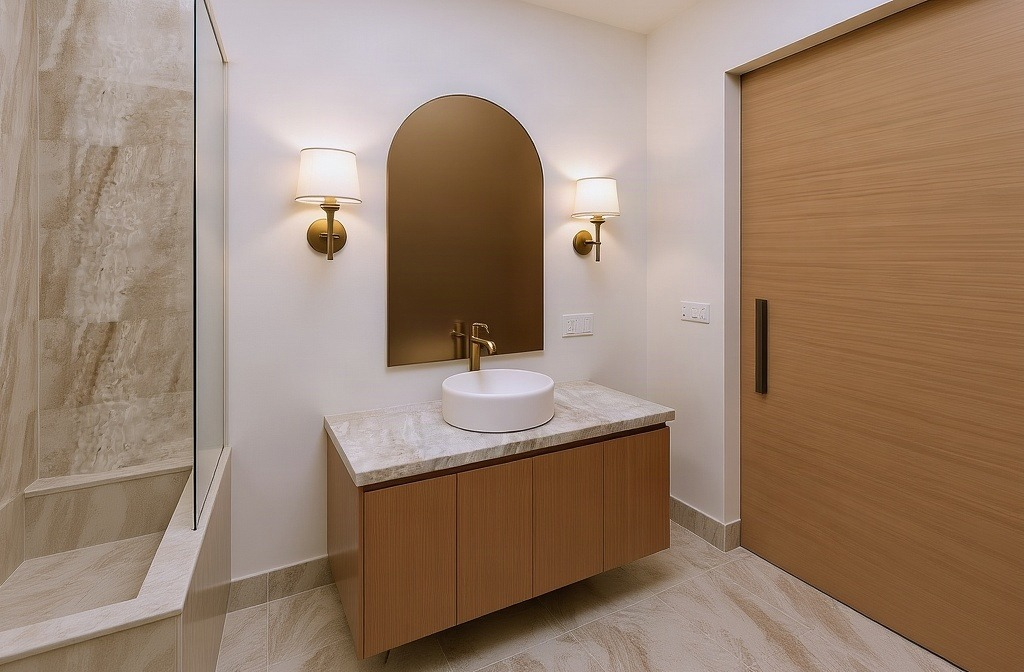
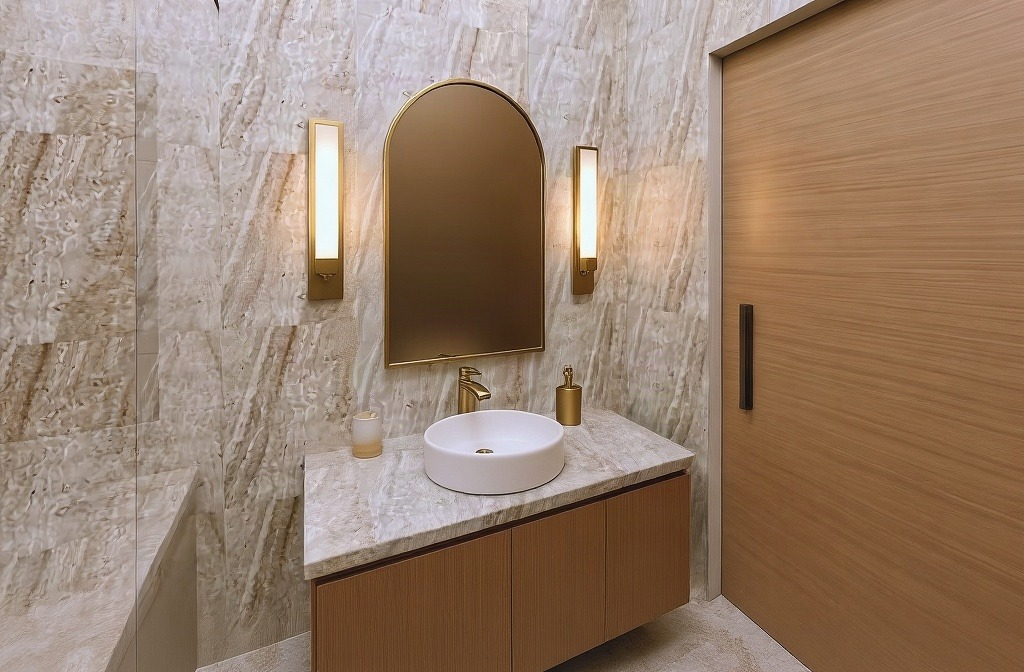
Bathrooms: full travertine floor and walls (owner-locked) with upgraded fixtures
Claude-Session: https://claude.ai/code/session_01Y66GuRywBsTRh1cQJ3PYHH

diff --git a/design/constitution/README.md b/design/constitution/README.md
@@ -13,5 +13,5 @@ Approved by the owner on the main living room. It applies to every room, with va
 | Lighting | Paper lantern pendants, linen lamps, LED coves and lit niches. |
 | Accents | Sage / butter yellow / rust. Accents only, never whole rooms. |
 | Rooms | Master: dusty blush + ivory. Child: butter accent only. Family lounge: sage + butter. Greenhouse: approved as is. |
-| Bathrooms | Travertine on the floor and in wet zones only (shower + vanity wall). Other walls warm white tadelakt. Oak vanity, arched backlit mirror, brass. |
+| Bathrooms | LOCKED: travertine vein-cut tile (see bathroom_travertine_tile.png) on the floor and ALL walls, floor to ceiling. Medium oak floating vanity, arched backlit mirror, brass sconces and fittings. |
 | Circulation | Every corridor/stair wall gets one composed moment: an arched niche with a console, artwork or sconces, and a runner. |
